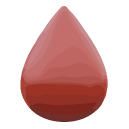
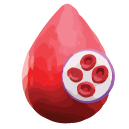
updating Pharmacy Screen

diff --git a/app/(authenticated)/(services)/Pharmacy.tsx b/app/(authenticated)/(services)/Pharmacy.tsx
@@ -129,11 +129,7 @@ const categoryData = [
     imageSource: require("@/assets/images/brain.png"),
     text: "Brain",
   },
-  {
-    key: "4",
-    imageSource: require("@/assets/images/chemo.png"),
-    text: "Chemotherapy",
-  },
+
   { key: "5", imageSource: require("@/assets/images/cold.png"), text: "Cold" },
   {
     key: "6",
@@ -174,6 +170,72 @@ const general_data = [
     imageSource: require("@/assets/images/medicine_images/img15.jpeg"),
     title: "Brufen Tablets 200mg (1 strip = 10 tablets)",
     price: 39.67,
+  },
+];
+
+const blood_data = [
+  {
+    key: "1",
+    imageSource: require("@/assets/images/medicine_images/img16.jpeg"),
+    title: "Beurer bm 28 upper arm blood pressure monitor",
+    price: 8500.0,
+  },
+  {
+    key: "2",
+    imageSource: require("@/assets/images/medicine_images/img17.jpeg"),
+    title: "Boferin 500mg/10ml injection",
+    price: 3400.0,
+  },
+  {
+    key: "3",
+    imageSource: require("@/assets/images/medicine_images/img18.jpeg"),
+    title: "Beurer Upper Arm Blood Pressure Monitoring Device Bm 58",
+    price: 15500.0,
+  },
+  {
+    key: "4",
+    imageSource: require("@/assets/images/medicine_images/img19.jpeg"),
+    title: "Amlocard Tablets 5mg (1 Strip = 10 Tablets)",
+    price: 118.94,
+  },
+  {
+    key: "5",
+    imageSource: require("@/assets/images/medicine_images/img20.jpeg"),
+    title: "Dapa Tablets 10mg (1 strip = 14 Tablets)",
+    price: 535.0,
+  },
+];
+
+const brain_data = [
+  {
+    key: "1",
+    imageSource: require("@/assets/images/medicine_images/img21.jpeg"),
+    title: "Lalap tablets 50mg (1 strip = 7 tablets)",
+    price: 420.0,
+  },
+  {
+    key: "2",
+    imageSource: require("@/assets/images/medicine_images/img22.jpeg"),
+    title: "Risp oral 30ml solution 1mg/ml",
+    price: 547.0,
+  },
+  {
+    key: "3",
+    imageSource: require("@/assets/images/medicine_images/img23.jpeg"),
+    title: "Reteric capsules 75mg (1 strip = 7 capsules)",
+    price: 34.07,
+  },
+  {
+    key: "4",
+    imageSource: require("@/assets/images/medicine_images/img24.jpeg"),
+    title: "Zavget tablets 10mg (1 box = 1 strip)(1 strip = 14 tablets)",
+    price: 525.0,
+  },
+  {
+    key: "5",
+    imageSource: require("@/assets/images/medicine_images/img25.jpeg"),
+    title: "Zoloft tablets 50mg (1 box = 3 strips) (1 strip = 10 tablets)",
+    price: 3219.0,
   },
 ];
 
@@ -226,7 +288,7 @@ const Pharmacy = () => {
         <View style={styles.productTile}>
           <Image
             source={item.imageSource}
-            style={[{ resizeMode: "contain", width: 120, height: 120 }]}
+            style={[{ resizeMode: "contain", width: 140, height: 140 }]}
           />
           <TouchableWithoutFeedback>
             <View style={styles.add_button}>
@@ -284,7 +346,13 @@ const Pharmacy = () => {
           />
           {/* </Pressable> */}
         </View>
-        <PharmacySponserAd />
+        <PharmacySponserAd
+          height={160}
+          width={160}
+          title={`Enjoy muft ka${"\n"}easyload!`}
+          description={`Easyload ab bilkul free`}
+          imageSource={require("@/assets/images/easypaisa_ad.jpg")}
+        />
 
         <View>
           <SeeMore
@@ -373,7 +441,55 @@ const Pharmacy = () => {
           <Pressable>
             <FlatList
               horizontal
-              data={general_data}
+              data={blood_data}
+              renderItem={renderProductTile}
+              keyExtractor={(item) => item.key}
+              showsHorizontalScrollIndicator={false}
+              // scrollEnabled={isBottomSheetOpen === false}
+            />
+          </Pressable>
+        </View>
+
+        <View style={{ marginTop: 38 }}>
+          <SeeMore
+            heading="Brain"
+            onSeeMorePress={function (): void {
+              throw new Error("Function not implemented.");
+            }}
+          />
+          <Pressable>
+            <FlatList
+              horizontal
+              data={brain_data}
+              renderItem={renderProductTile}
+              keyExtractor={(item) => item.key}
+              showsHorizontalScrollIndicator={false}
+              // scrollEnabled={isBottomSheetOpen === false}
+            />
+          </Pressable>
+        </View>
+
+        <View style={{ marginTop: 38 }}>
+          <PharmacySponserAd
+            height={180}
+            title={`Visa weekdays`}
+            description={`Use Visa30 on checkout${"\n"}and get 30% off!`}
+            imageSource={require("@/assets/images/Mastercard.jpg")}
+            width={150}
+          />
+        </View>
+
+        <View>
+          <SeeMore
+            heading="Cold"
+            onSeeMorePress={function (): void {
+              throw new Error("Function not implemented.");
+            }}
+          />
+          <Pressable>
+            <FlatList
+              horizontal
+              data={brain_data}
               renderItem={renderProductTile}
               keyExtractor={(item) => item.key}
               showsHorizontalScrollIndicator={false}
@@ -435,11 +551,11 @@ const styles = StyleSheet.create({
   },
 
   productTile: {
-    width: 120,
+    width: 140,
     marginRight: 10,
     // justifyContent: "center",
     // alignItems: "center",
-    height: 120,
+    height: 140,
     borderRadius: 14,
     backgroundColor: "#F6F6F6",
     borderWidth: StyleSheet.hairlineWidth,

diff --git a/components/PharmacySponserAd.tsx b/components/PharmacySponserAd.tsx
@@ -1,7 +1,23 @@
-import { View, Text, StyleSheet, Image } from "react-native";
+import { View, Text, StyleSheet, Image, ImageSourcePropType } from "react-native";
 import React from "react";
 
-const PharmacySponserAd = () => {
+interface PharmacySponserAdProps {
+  imageSource: ImageSourcePropType;
+  height: number;
+  width: number;
+  title: string;
+  description: string;
+  sponsoredText?: string; // Optional prop
+}
+
+const PharmacySponserAd: React.FC<PharmacySponserAdProps> = ({
+  imageSource,
+  height,
+  width,
+  title,
+  description,
+  sponsoredText = "Sponsored", // Default value for sponsored text
+}) => {
   return (
     <View
       style={{
@@ -10,12 +26,12 @@ const PharmacySponserAd = () => {
         marginBottom: 38,
         borderWidth: StyleSheet.hairlineWidth,
         borderColor: "#a0a0a0",
-        height: 160,
+        height: height,
         borderRadius: 10,
         overflow: "hidden",
         display: "flex",
         flexDirection: "row",
-        justifyContent: "space-between",
+        // justifyContent: "space-between",
       }}
     >
       <View
@@ -24,21 +40,22 @@ const PharmacySponserAd = () => {
           paddingVertical: 16,
           flexDirection: "column",
           justifyContent: "space-between",
+          flexGrow:1
         }}
       >
-        <Text style={{ color: "gray", fontSize: 12 }}>Sponsored</Text>
+        <Text style={{ color: "gray", fontSize: 12 }}>{sponsoredText}</Text>
         <View>
-          <Text style={{ fontWeight: "700", fontSize: 16, marginBottom: 4 }}>
-            Enjoy muft ka{"\n"}easyload!
+          <Text style={{ fontWeight: "700", fontSize: 16, marginBottom: 12 }}>
+            {title}
           </Text>
           <Text style={{ fontSize: 12, color: "#999999", marginBottom: 8 }}>
-            Easyload ab bilkul free
+            {description}
           </Text>
         </View>
       </View>
       <Image
-        source={require("@/assets/images/easypaisa_ad.jpg")}
-        style={{ height: 160, width: 160, resizeMode: "contain" }}
+        source={imageSource}
+        style={{ height: height, width: width, resizeMode: "cover" }}
       />
     </View>
   );

diff --git a/components/PharmacyHeader.tsx b/components/PharmacyHeader.tsx
@@ -70,8 +70,18 @@ const PharmacyHeader = () => {
         </View>
 
         <View style={{ flexDirection: "row", gap: 20 }}>
-          <Ionicons name="heart-outline" size={20} color={"#fff"} />
-          <Ionicons name="bag-outline" size={20} color={"#fff"} />
+          <Ionicons
+            name="heart-outline"
+            size={22}
+            color={"#fff"}
+            style={{ marginBottom: 5 }}
+          />
+          <Ionicons
+            name="bag-outline"
+            size={22}
+            color={"#fff"}
+            style={{ marginBottom: 5 }}
+          />
         </View>
       </View>
       <View style={styles.container}>
